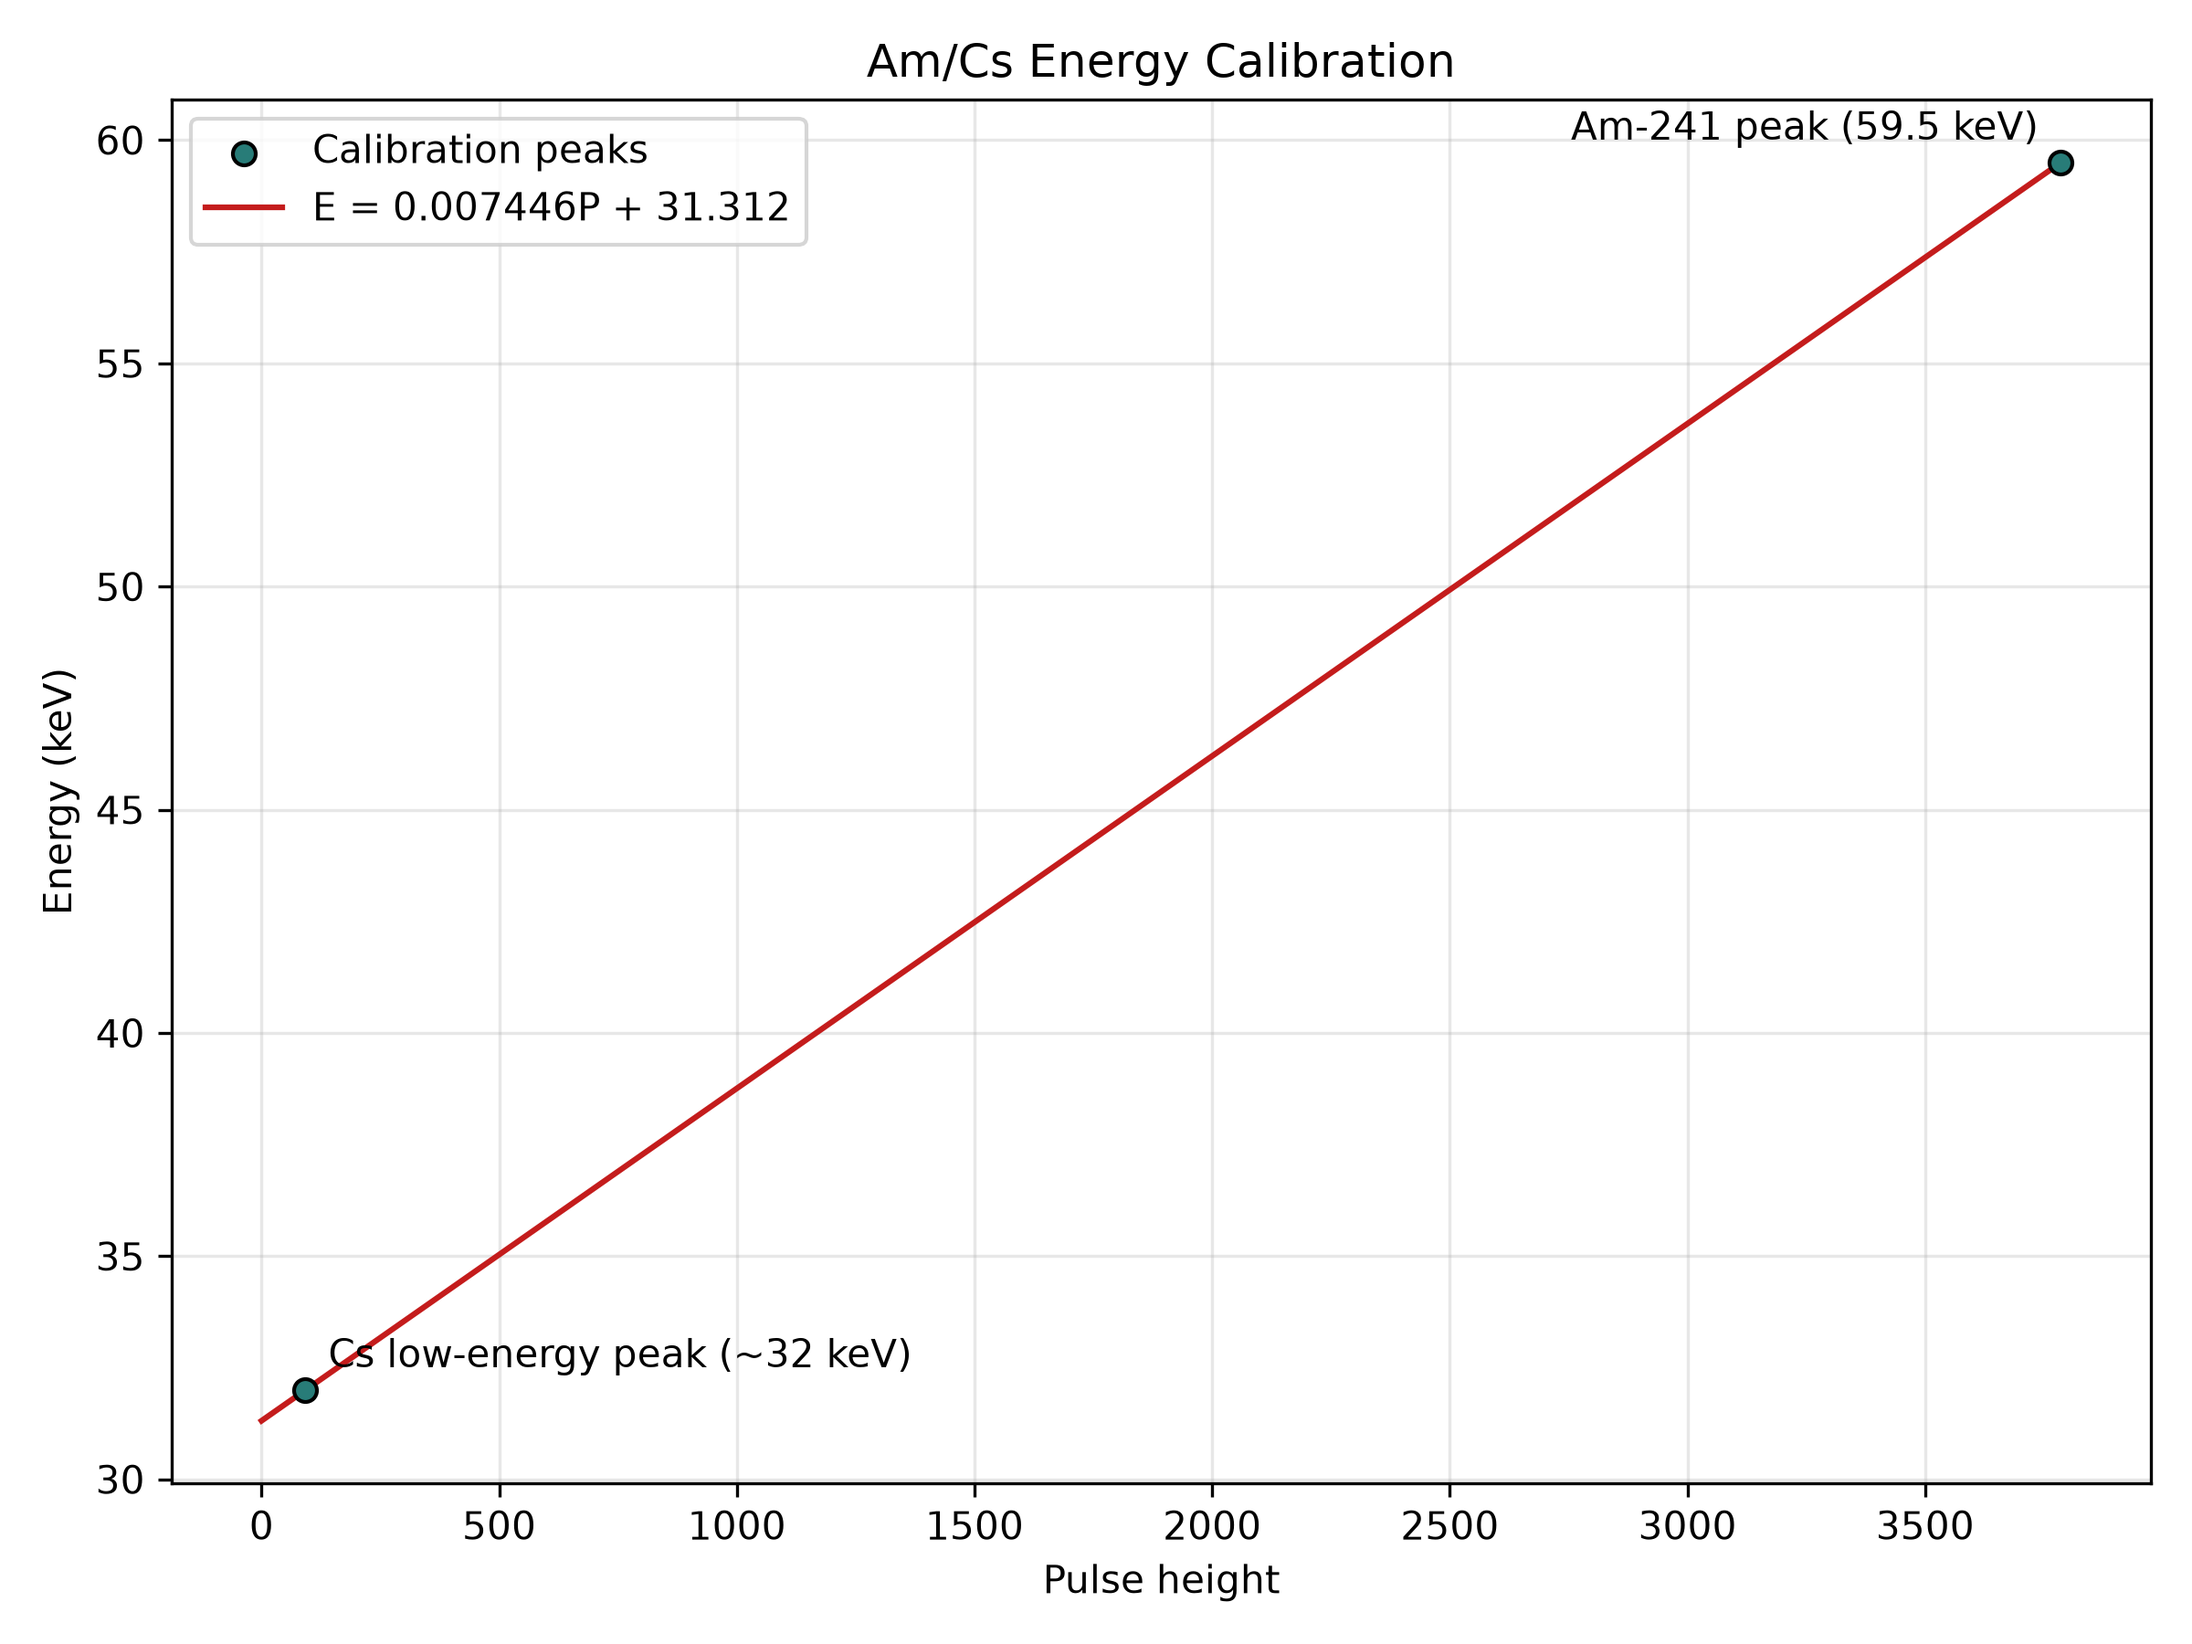
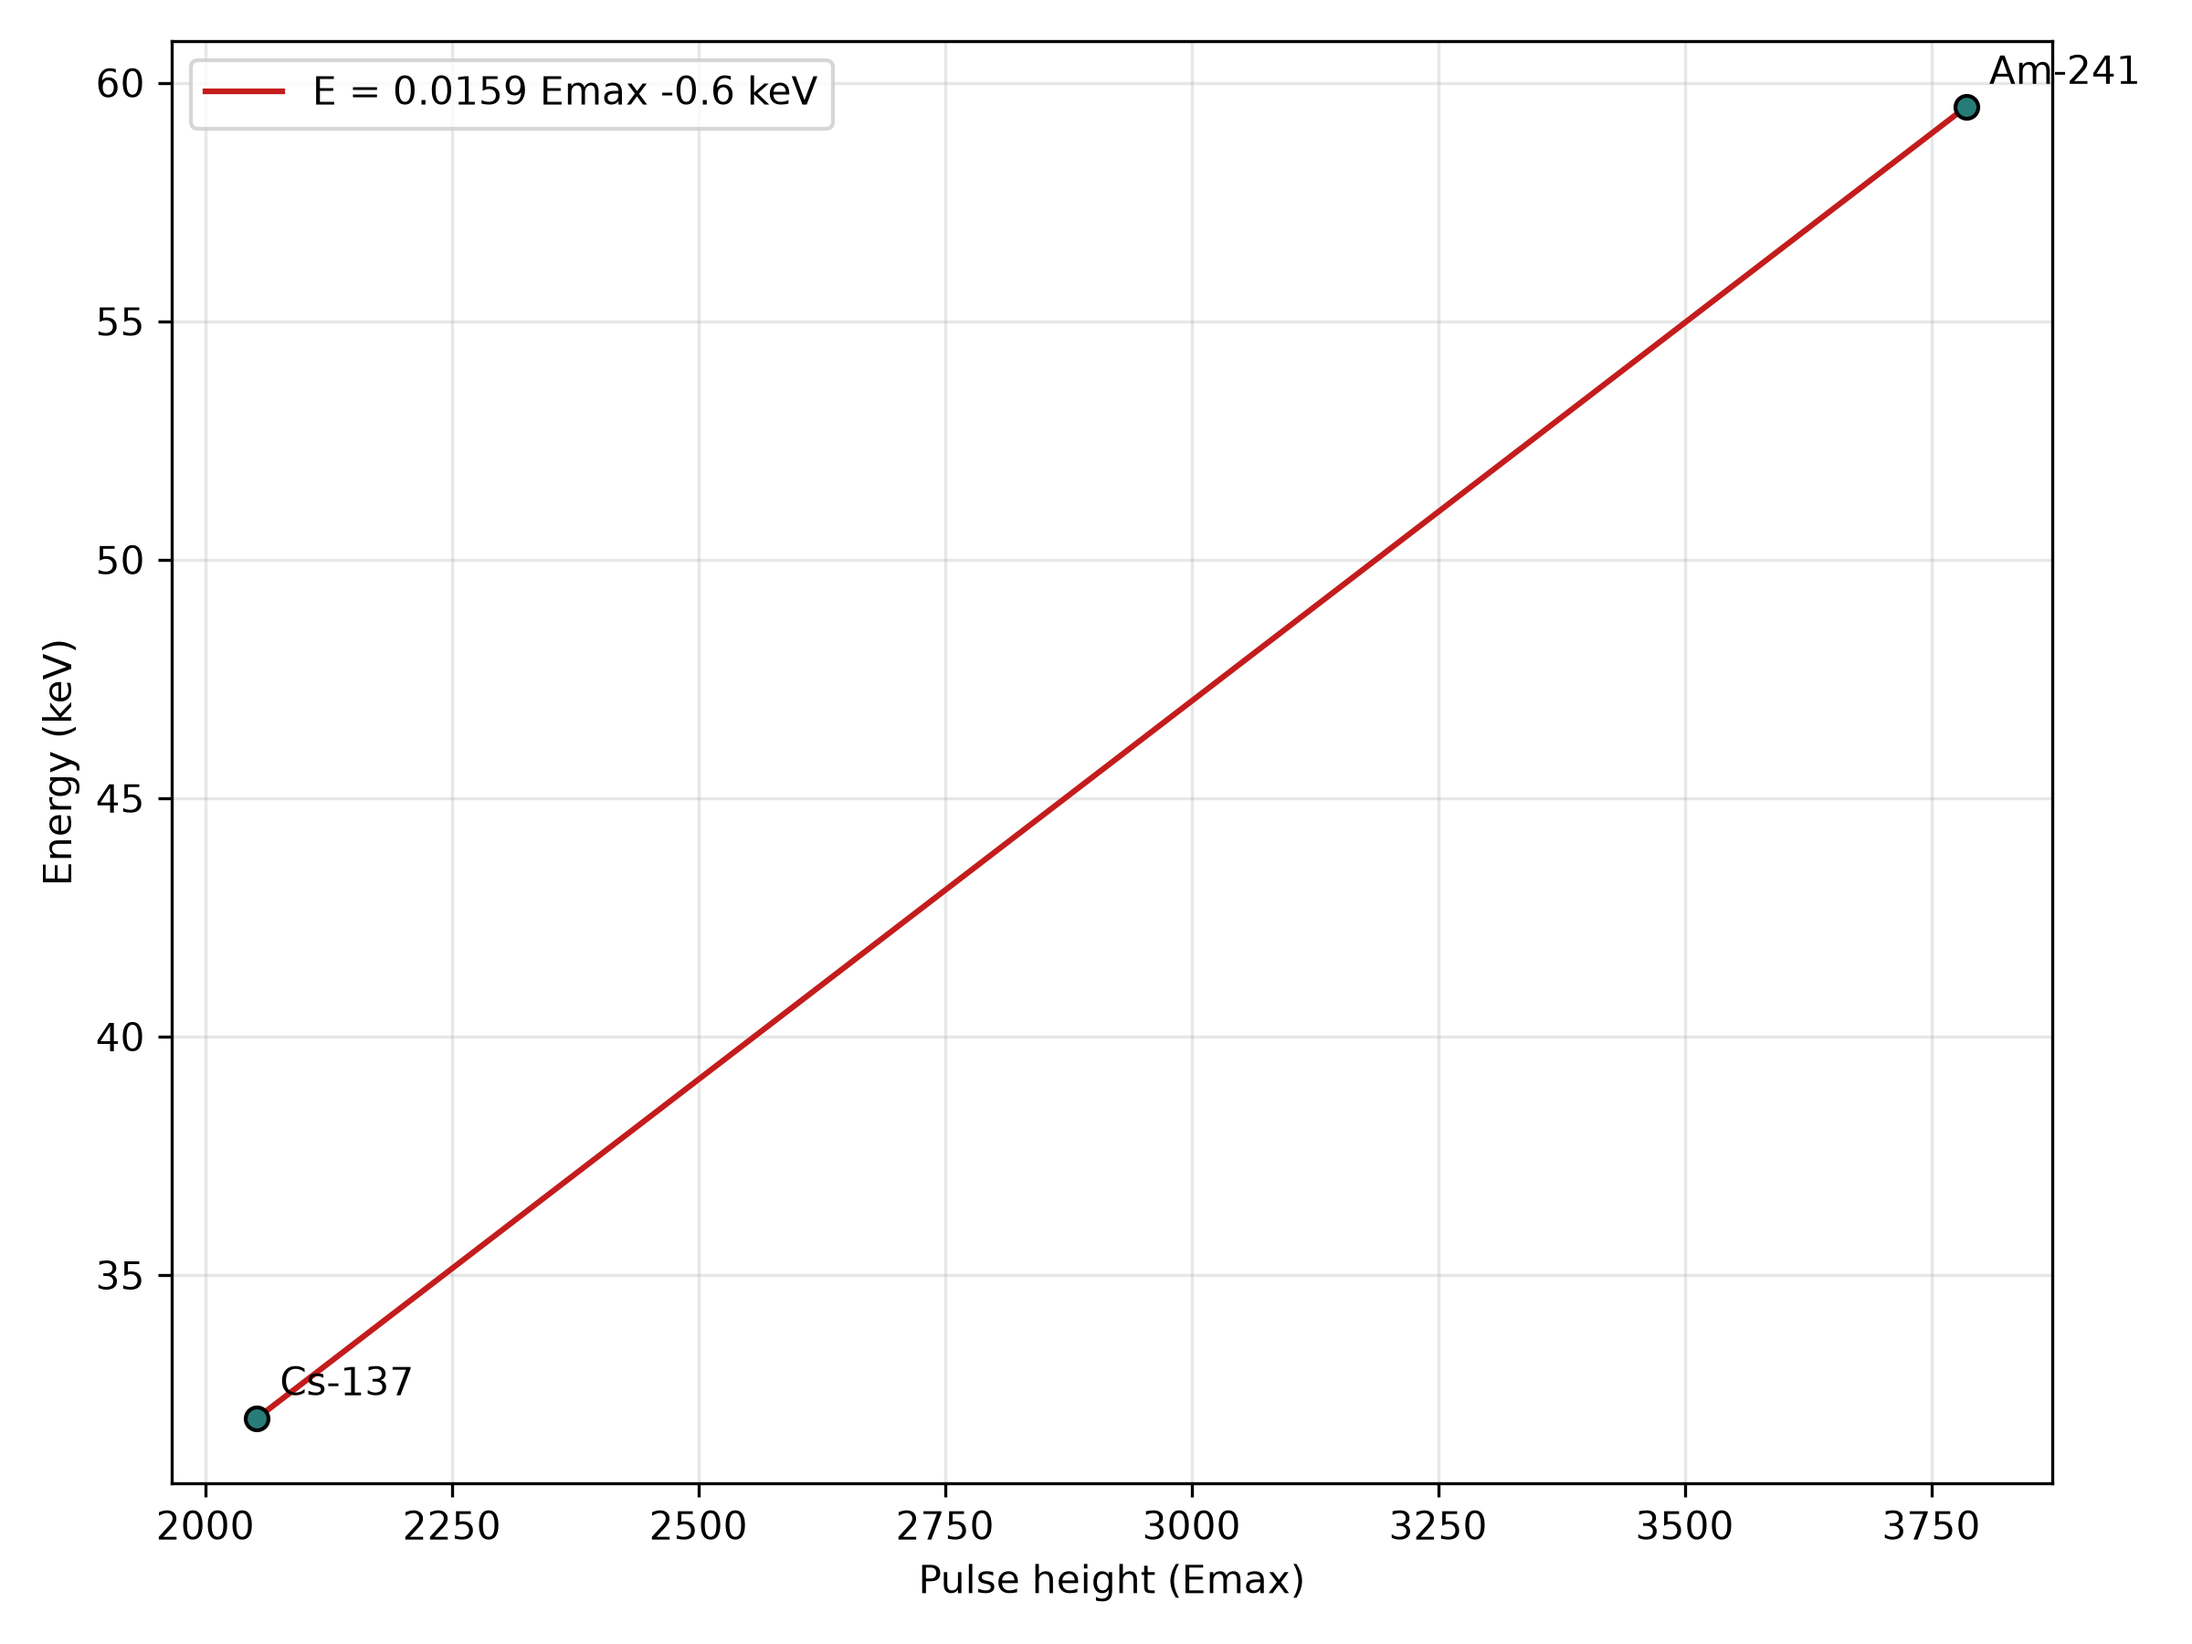
fin calibration and all graphs made :)

diff --git a/2026uni/Lab5/Lab5.py b/2026uni/Lab5/Lab5.py
@@ -1,96 +1,89 @@
 from pathlib import Path
-
+from math import cos,sin, degrees, radians
 import matplotlib.pyplot as plt
 
 
-AM_ENERGY_KEV = 59.5
-CS_LOW_ENERGY_KEV = 32.0
-CS_LOW_PEAK_MAX_PULSE_HEIGHT = 200.0
+def read_spectrum(file_name):
+    mes = {}
+    with Path(__file__).with_name(file_name).open() as f:
+        for line in f:
+            parts = line.strip().split()
+            if len(parts) == 2:
+                key = float(parts[0])
+                value = int(parts[1])
+                mes[key] = value
+    return mes
 
 
-def read_spectrum(filename: str) -> list[tuple[float, int]]:
-    spectrum = []
-    with Path(__file__).with_name(filename).open() as file:
-        next(file, None)
-        for line in file:
-            pulse_height, count = line.split()
-            spectrum.append((float(pulse_height), int(count)))
-    if not spectrum:
-        raise ValueError(f"No spectrum data found in {filename}.")
-    return spectrum
-
-
-def main() -> None:
-    am_peak = max(
-        read_spectrum("spectrum_am_600s.txt"),
-        key=lambda point: point[1],
-    )
-    cs_low_peak = max(
-        (
-            point
-            for point in read_spectrum("spectrum_cs_600s.txt")
-            if point[0] < CS_LOW_PEAK_MAX_PULSE_HEIGHT
-        ),
-        key=lambda point: point[1],
-    )
-
-    slope = (AM_ENERGY_KEV - CS_LOW_ENERGY_KEV) / (
-        am_peak[0] - cs_low_peak[0]
-    )
-    intercept = CS_LOW_ENERGY_KEV - slope * cs_low_peak[0]
-
-    print(
-        f"Calibration line: E = {slope:.6f} * pulse height "
-        f"+ {intercept:.3f} keV"
-    )
-    print(
-        f"Cs low-energy peak: {cs_low_peak[0]:.2f} "
-        f"(~{CS_LOW_ENERGY_KEV:.1f} keV)"
-    )
-    print(f"Am peak: {am_peak[0]:.2f} ({AM_ENERGY_KEV:.1f} keV)")
-
-    line_x = [0.0, am_peak[0]]
-    line_y = [slope * pulse_height + intercept for pulse_height in line_x]
+def plot_spectrum(file_name, output_name):
+    mes = read_spectrum(file_name)
+    pulse_heights, counts = zip(*sorted(mes.items()))
+    bin_width = pulse_heights[1] - pulse_heights[0]
 
     plt.figure(figsize=(8, 6))
-    plt.scatter(
-        [cs_low_peak[0], am_peak[0]],
-        [CS_LOW_ENERGY_KEV, AM_ENERGY_KEV],
-        color="#287c78",
+    plt.bar(
+        pulse_heights,
+        counts,
+        width=bin_width,
+        align="center",
         edgecolor="black",
-        zorder=3,
-        label="Calibration peaks",
-    )
-    plt.annotate(
-        "Cs low-energy peak (~32 keV)",
-        (cs_low_peak[0], CS_LOW_ENERGY_KEV),
-        xytext=(6, 6),
-        textcoords="offset points",
-    )
-    plt.annotate(
-        "Am-241 peak (59.5 keV)",
-        (am_peak[0], AM_ENERGY_KEV),
-        xytext=(-6, 6),
-        textcoords="offset points",
-        ha="right",
-    )
-    plt.plot(
-        line_x,
-        line_y,
-        color="#c41c1c",
-        label=f"E = {slope:.6f}P + {intercept:.3f}",
+        linewidth=0.6,
     )
     plt.xlabel("Pulse height")
-    plt.ylabel("Energy (keV)")
-    plt.title("Am/Cs Energy Calibration")
-    plt.grid(True, alpha=0.3)
-    plt.legend()
+    plt.ylabel("Count")
+    plt.title("Pulse-height spectrum")
     plt.tight_layout()
-    output = Path(__file__).with_name("Lab5_calibration.png")
-    plt.savefig(output, dpi=300)
+    plt.savefig(Path(__file__).with_name(output_name), dpi=300)
     plt.close()
-    print(f"Saved calibration graph to {output}")
 
 
-if __name__ == "__main__":
-    main()
+#Metrisis tou Cs
+plot_spectrum("spectrum_cs_600s.txt", "Lab5_spectrum_Cs.png")
+
+#Metrisis tou Am
+plot_spectrum("spectrum_am_600s.txt", "Lab5_spectrum_Am.png")
+
+# Calibration 
+Emax = []
+for spectrum_name in ["spectrum_cs_600s.txt", "spectrum_am_600s.txt"]:
+    mes = read_spectrum(spectrum_name)
+    Emax.append(max(mes, key=mes.get))
+
+known_energies_keV = [32.0, 59.5]
+source_labels = ["Cs-137", "Am-241"]
+print("Emax (Cs, Am):", Emax)
+
+mean_emax = sum(Emax) / len(Emax)
+mean_energy = sum(known_energies_keV) / len(known_energies_keV)
+a = sum(
+    (pulse_height - mean_emax) * (energy - mean_energy)
+    for pulse_height, energy in zip(Emax, known_energies_keV)
+) / sum((pulse_height - mean_emax) ** 2 for pulse_height in Emax)
+b = mean_energy - a * mean_emax
+print(f"Calibration line: E = {a:.4f} * Emax {b:.1f} keV")
+
+plt.figure(figsize=(8, 6))
+plt.scatter(Emax, known_energies_keV, color="#287c78", edgecolor="black", zorder=3)
+for pulse_height, energy, source in zip(Emax, known_energies_keV, source_labels):
+    plt.annotate(source, (pulse_height, energy), xytext=(6, 6), textcoords="offset points")
+
+line_x = [min(Emax), max(Emax)]
+line_y = [a * pulse_height + b for pulse_height in line_x]
+plt.plot(line_x, line_y, color="#c41c1c", label=f"E = {a:.4f} Emax {b:.1f} keV")
+plt.xlabel("Pulse height (Emax)")
+plt.ylabel("Energy (keV)")
+plt.grid(True, alpha=0.3)
+plt.legend()
+plt.tight_layout()
+plt.savefig(Path(__file__).with_name("Lab5_calibration.png"), dpi=300)
+plt.close()
+
+# ola ta spectra
+for file_name, output_name in [
+    ("spectrum_Ag_1200s.txt", "Lab5_spectrum_Ag.png"),
+    ("spectrum_BaCl2_1200s.txt", "Lab5_spectrum_BaCl2.png"),
+    ("spectrum_I2_1200s.txt", "Lab5_spectrum_I2.png"),
+    ("spectrum_Mo_1200s.txt", "Lab5_spectrum_Mo.png"),
+    ("spectrum_SrSO_1200s.txt", "Lab5_spectrum_SrSO.png"),
+]:
+    plot_spectrum(file_name, output_name)
